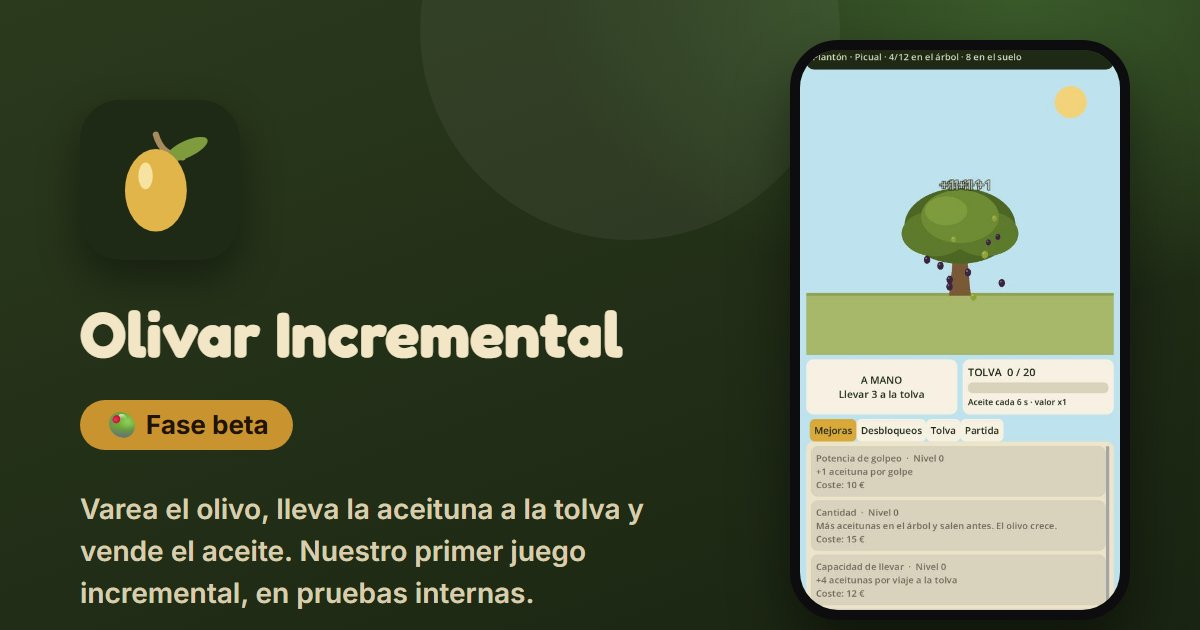
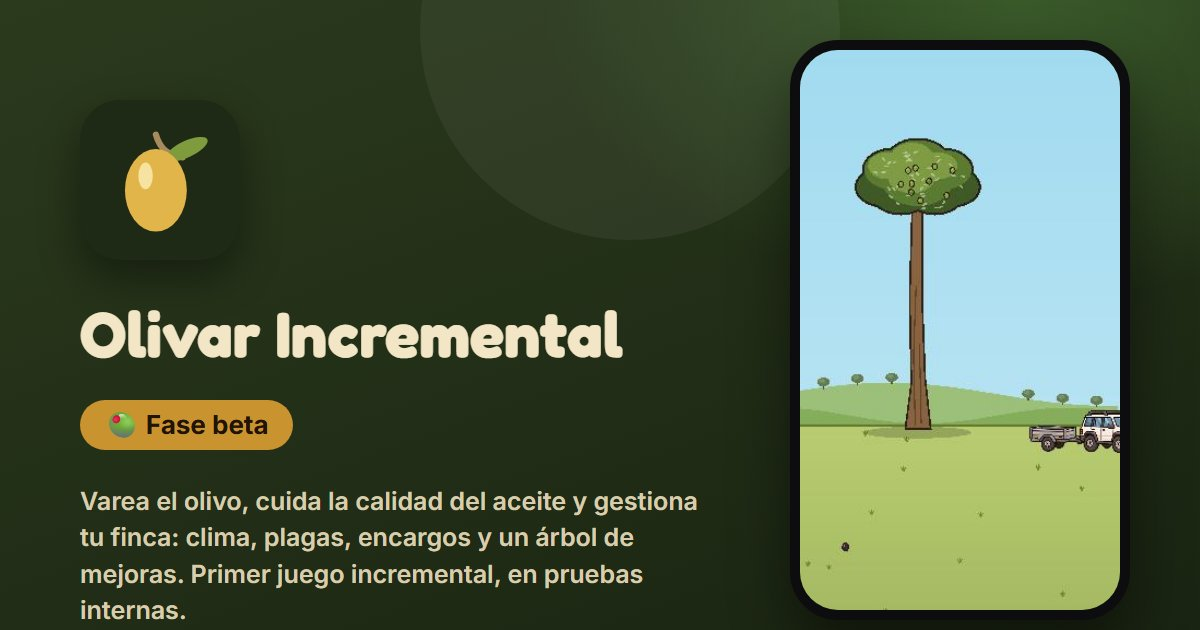
Olivar Incremental: ciclo día/noche, árbol de mejoras y botón para jugar en el navegador
- Descripción actualizada con la nueva profundidad del juego (calidad del aceite, clima, plagas, encargos, campañas)
- 3 capturas nuevas: de día, árbol de mejoras y bodega
- Enlace directo para jugarlo en valdeponygames.github.io/olivar-incremental

Changed region(s): [[0.6475, 0.0603, 0.9558, 0.9952], [0.0617, 0.7841, 0.5858, 0.9952]]

diff --git a/js/config.js b/js/config.js
@@ -44,6 +44,7 @@ const SITE = {
      - status: texto de la etiqueta si NO está publicado ("Próximamente", "En desarrollo"…)
      - color: color de fondo mientras cargan las imágenes
      - privacy: ruta a su política de privacidad ("" si no tiene)
+     - playInBrowserUrl: enlace para jugarlo directamente en el navegador, si lo tiene ("" si no)
      --------------------------------------------------------- */
   projects: [
     {
@@ -165,18 +166,21 @@ const SITE = {
       name: "Olivar Incremental",
       type: "Juego incremental",
       description:
-        "Varea el olivo para conseguir aceitunas, llévalas a la tolva y vende el aceite para mejorar tu olivar. " +
-        "Nuestro primer juego incremental: ahora mismo es un prototipo en fase beta, en pruebas internas.",
+        "Varea el olivo, recoge la aceituna antes de que se estropee y haz aceite de más o menos calidad según " +
+        "cómo la trates. De noche gestionas la finca: mejoras, bodega, encargos, clima y plagas, campaña tras campaña. " +
+        "Nuestro primer juego incremental: un prototipo en fase beta, jugable ya en el navegador.",
       folder: "img/proyectos/olivar-incremental/",
       icon: "icono.svg",
       iconBg: "#1f2a16",
       cover: "portada.jpg",
       color: "#1f2a16",
+      playInBrowserUrl: "https://valdeponygames.github.io/olivar-incremental/",
       screenshots: [
-        ["captura-01.jpg", "Vareando el olivo: las aceitunas caen con cada toque"],
-        ["captura-02.jpg", "Pantalla inicial, con el olivo y la tolva"]
+        ["captura-01.jpg", "De día: varea el olivo y recoge la aceituna antes de que se estropee"],
+        ["captura-02.jpg", "De noche: árbol de mejoras en forma de telaraña"],
+        ["captura-03.jpg", "Vende el aceite en la bodega, según su calidad y el precio del día"]
       ],
-      languages: ["Castellano"],
+      languages: ["Castellano", "English", "Français"],
       packageId: "",
       published: false,
       status: "En fase beta",

diff --git a/js/main.js b/js/main.js
@@ -131,6 +131,9 @@
         ])
       );
     }
+    if (p.playInBrowserUrl) {
+      actions.push(el("a", { class: "btn btn--primary", href: p.playInBrowserUrl, target: "_blank", rel: "noopener", text: "🫒 Jugar en el navegador" }));
+    }
     if (shots.length) {
       actions.push(el("button", { class: "btn btn--shots", type: "button", text: "📷 Ver capturas (" + shots.length + ")", onclick: () => openGallery(p, 0) }));
     }
